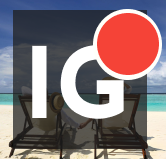
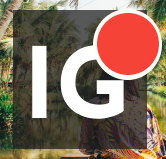
Change images and improve landing page

diff --git a/src/app/layouts/auth-layout/pages/landing-page/landing-page.component.html b/src/app/layouts/auth-layout/pages/landing-page/landing-page.component.html
@@ -35,7 +35,10 @@
             <h1 class="text-white text-s">IslandGuide.tours</h1>
           </span>
           <span class="text-white c-fonts text-center mt-4">
-            Discover Hidden Gems Locally or Experience Island Adventures Globally through Live Tours
+            Find Island Destinations Worldwide
+          </span>
+          <span class="text-white c-fonts text-center mt-4">
+            Find Island Guides and Talk One-on-One Before Hiring
           </span>
         </div>
       </div>

diff --git a/src/app/layouts/auth-layout/pages/landing-page/landing-page.component.scss b/src/app/layouts/auth-layout/pages/landing-page/landing-page.component.scss
@@ -9,7 +9,7 @@
     text-transform: none;
   }
   .c-fonts {
-    font-size: min(max(16px, 4vw), 25px);
+    font-size: min(max(16px, 4vw), 24px);
     @media (min-width: 550px) {
       line-height: 32px;
     }
@@ -33,7 +33,7 @@
     background-size: cover;
     background-repeat: no-repeat;
     object-fit: cover !important;
-    background-position: center;
+    background-position: center 90%;
     height: calc(100vh - 76px);
     // height: 130vh;
     // background-position: center;
